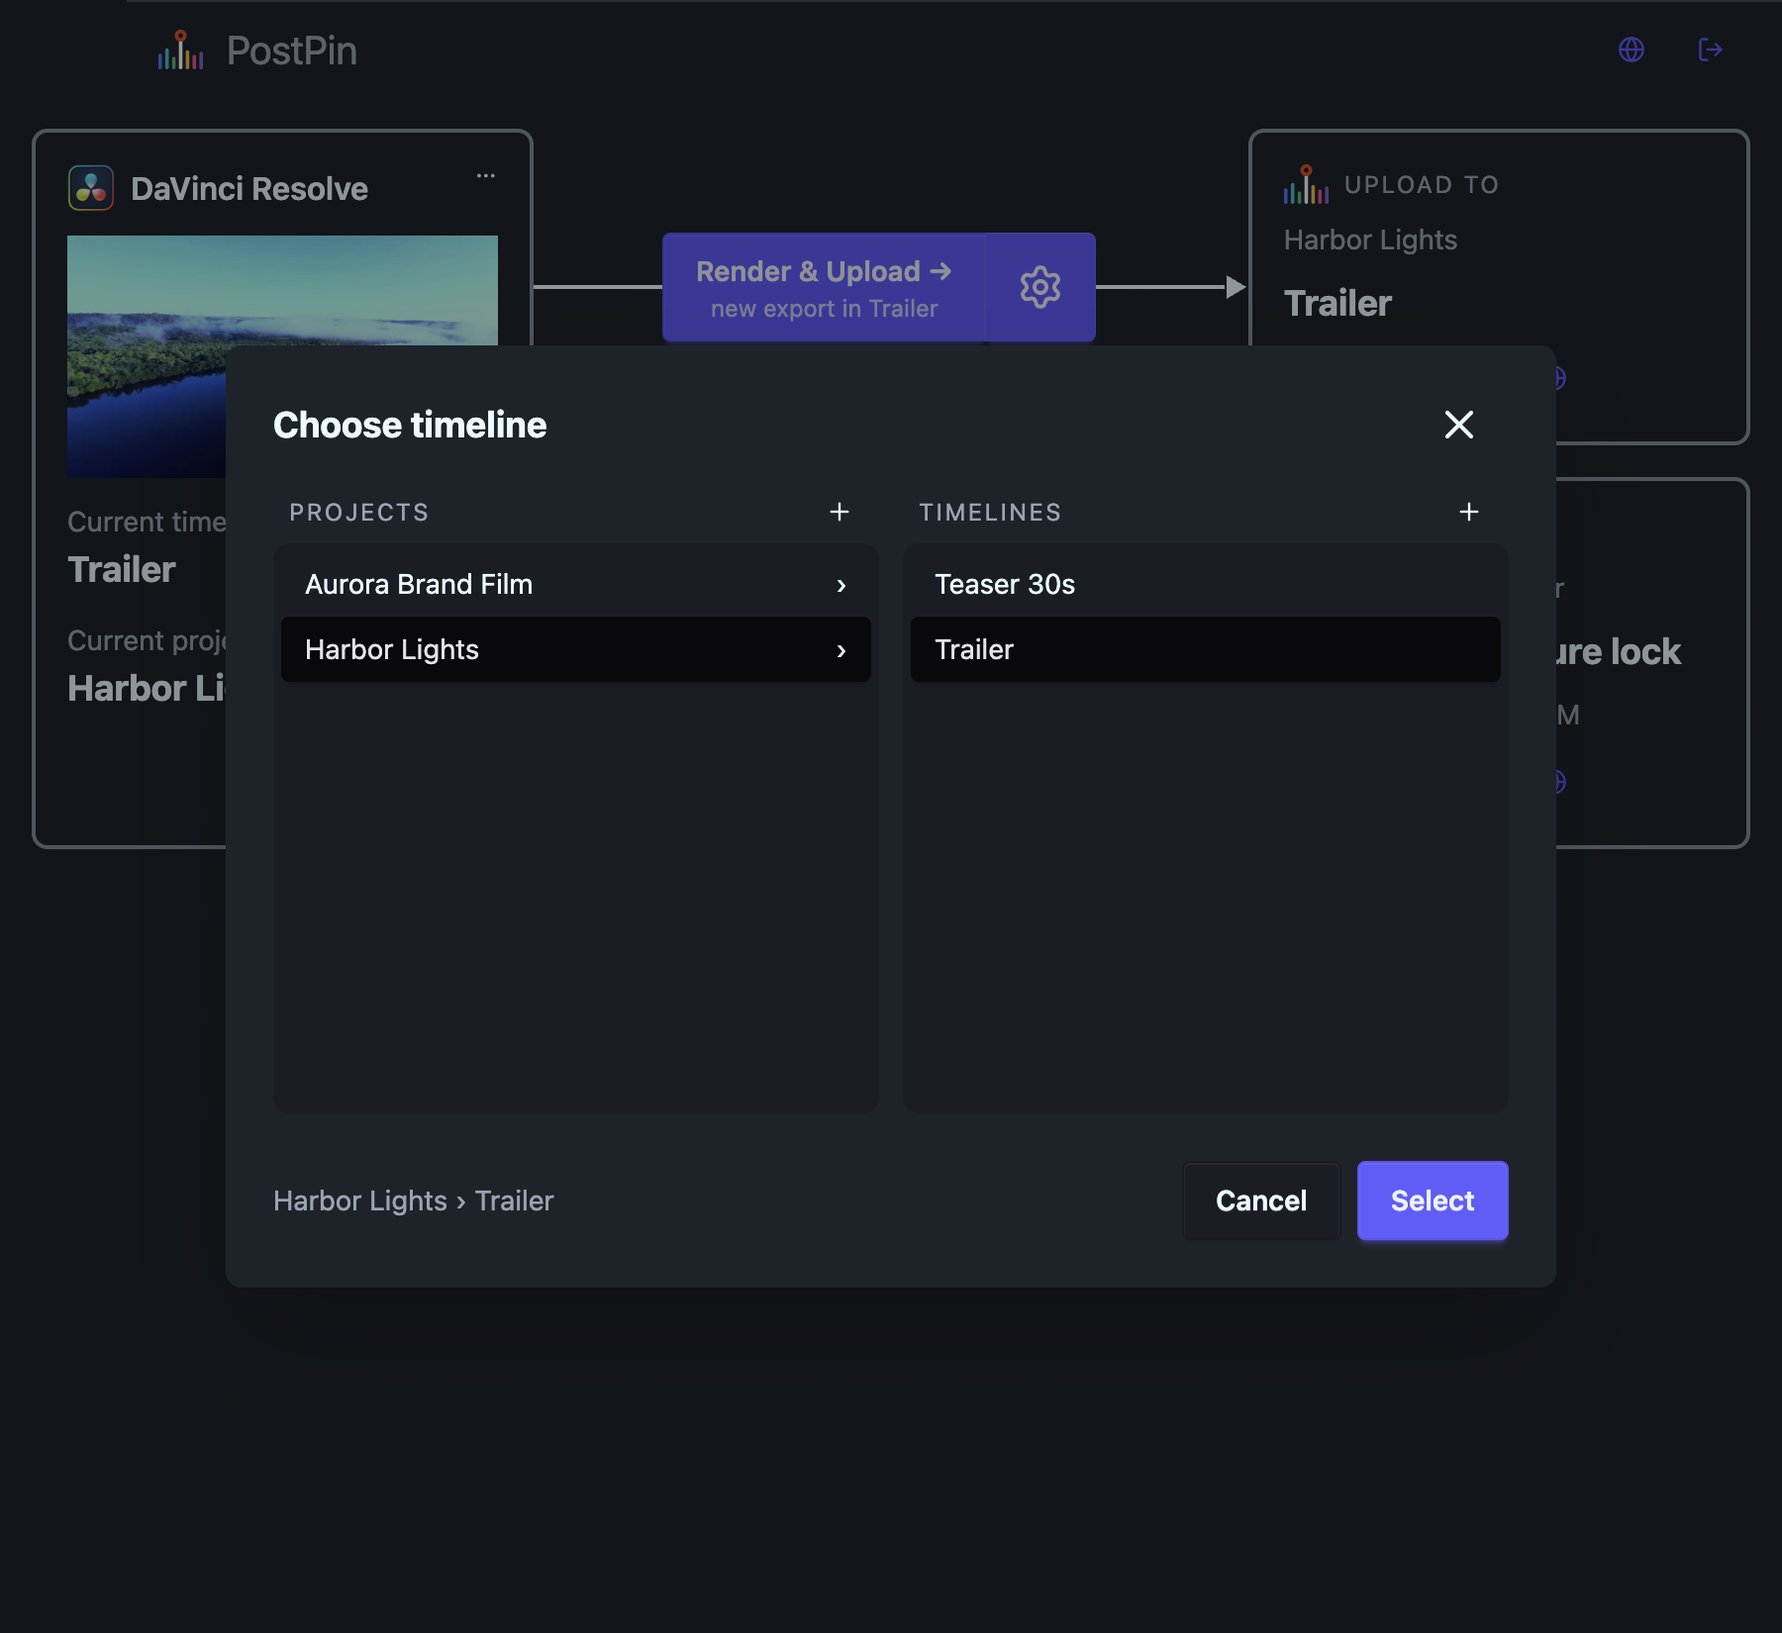
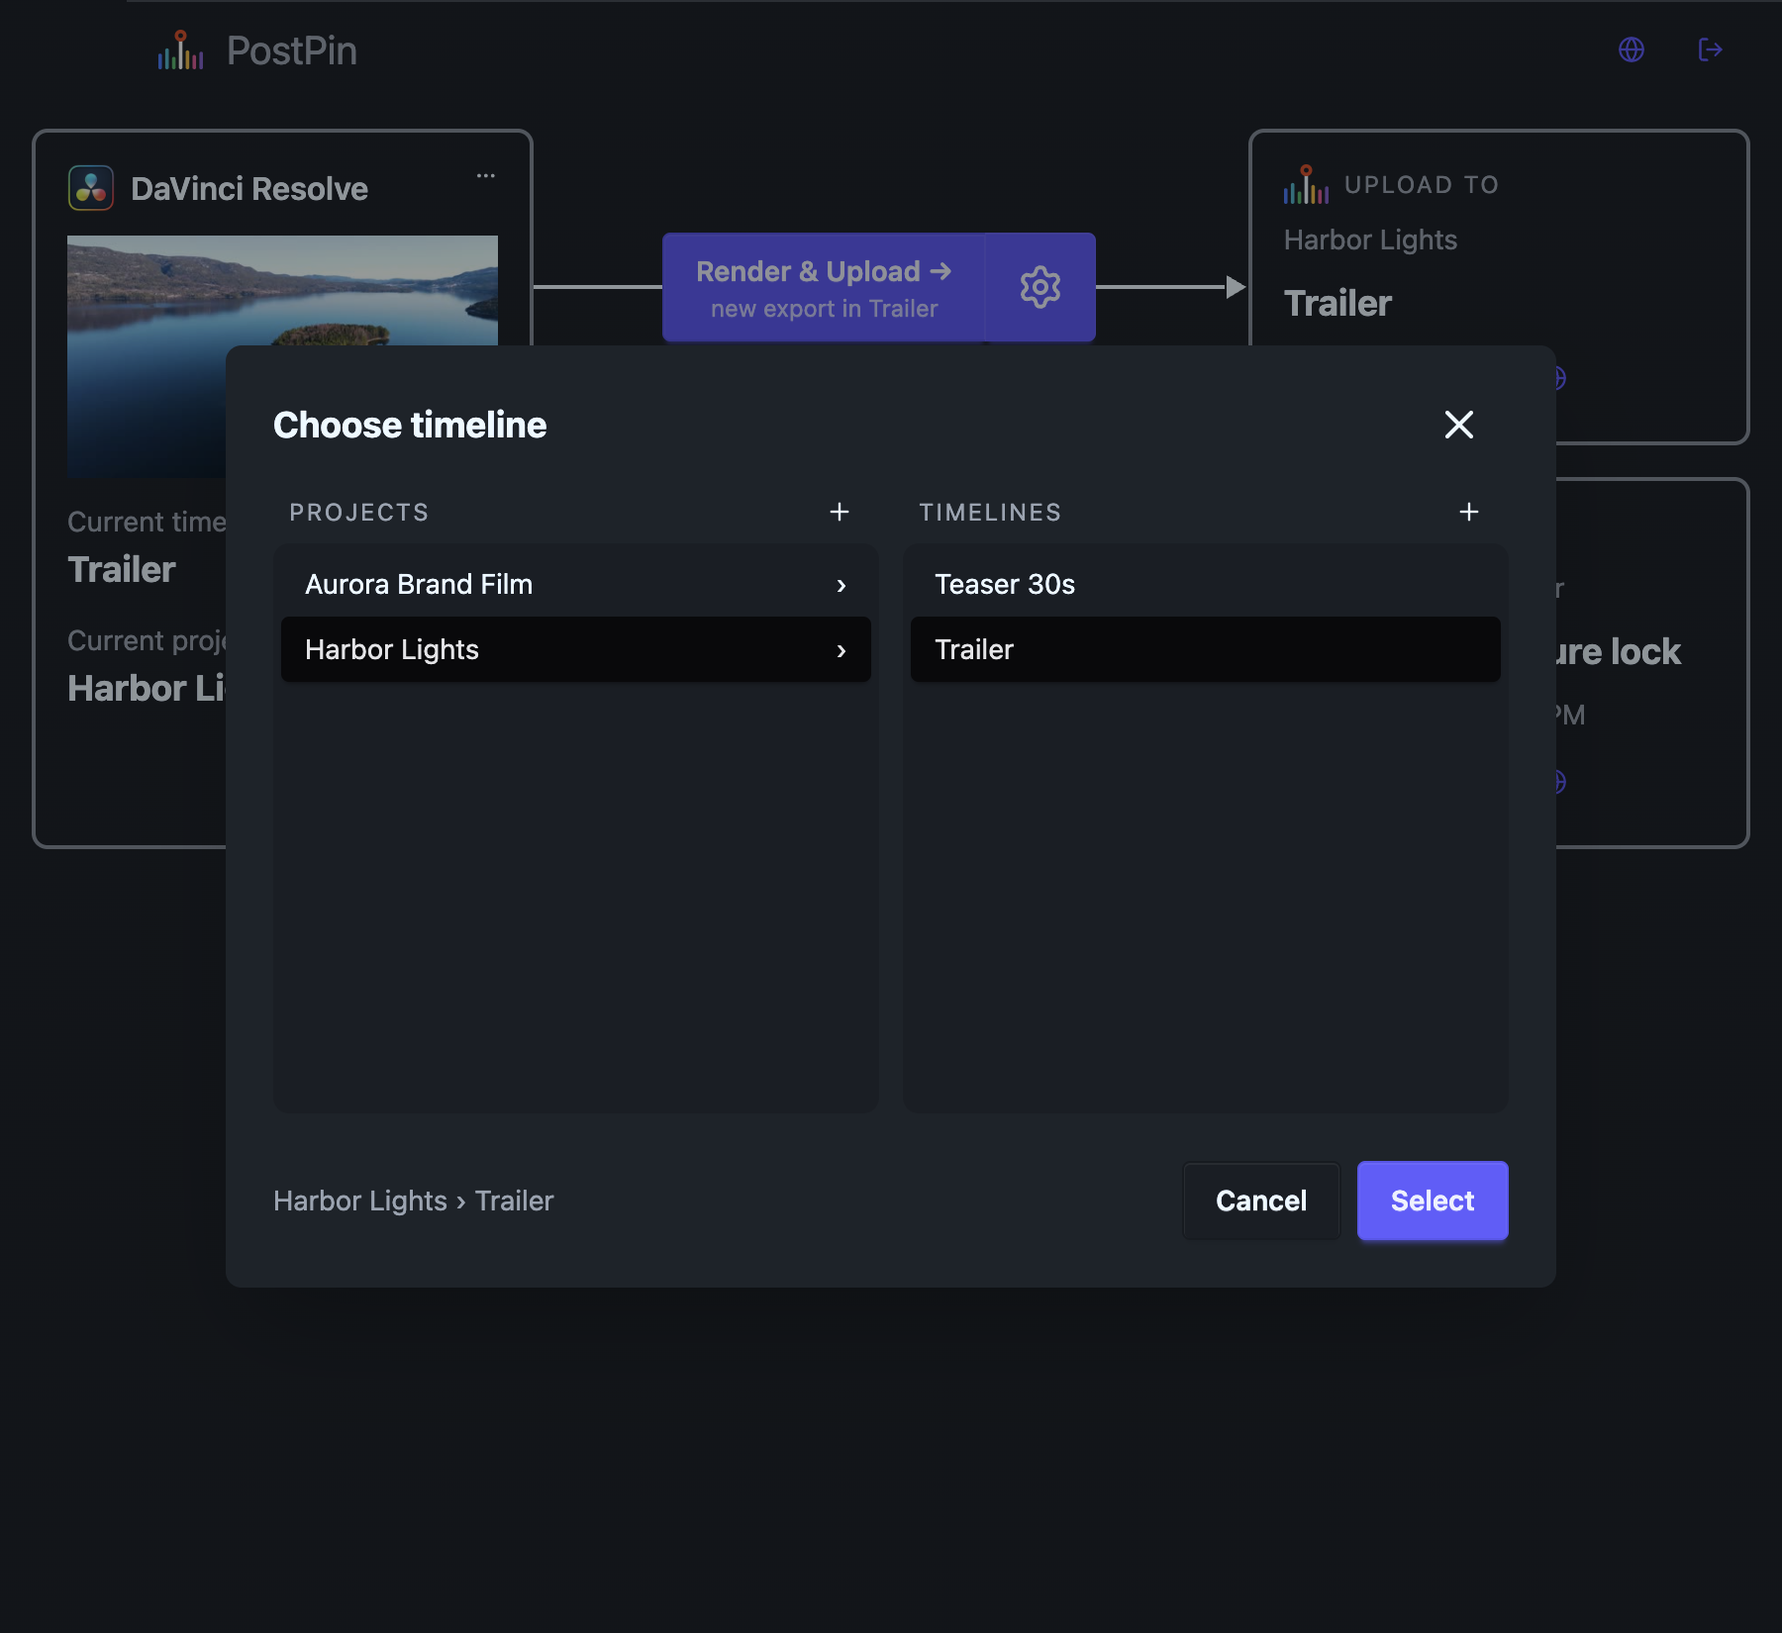
docs: theme-aware web screenshots in a browser frame, fjord clip
Every web app screenshot is now taken in light and dark mode (the app
follows prefers-color-scheme, so only the emulated scheme changes). The
run writes web/manifest.json with each shot's page URL and whether it is
a whole page or a cutout.

<Screenshot name alt> shows the variant matching the docs theme and puts
whole pages into a browser window frame with the page URL; dialogs stay
unframed. Shot 3 of the demo render is now a Norwegian fjord instead of
the river clip with the off-looking sky.

Changed region(s): [[0.0311, 0.1236, 0.28, 0.2782], [0.8711, 0.4327, 0.9022, 0.4636]]

diff --git a/screenshots/webshot.ts b/screenshots/webshot.ts
@@ -1,0 +1,50 @@
+// Takes a web app screenshot in light and dark mode and records it in the manifest, which the
+// docs' <Screenshot> component reads: the page URL for the browser frame, and whether the shot
+// is a whole page (framed) or a cutout like a dialog (not framed).
+import type { Page } from "playwright";
+import fs from "node:fs";
+import path from "node:path";
+import { OUT, sleep } from "./lib.ts";
+
+const dir = path.join(OUT, "web");
+const manifestFile = path.join(dir, "manifest.json");
+
+export interface ShotInfo {
+	/** path and query of the page, shown in the browser frame */
+	url: string;
+	/** a whole page (shown in a browser frame) or a cutout of one */
+	page: boolean;
+}
+
+function updateManifest(name: string, info: ShotInfo) {
+	const manifest: Record<string, ShotInfo> = fs.existsSync(manifestFile)
+		? JSON.parse(fs.readFileSync(manifestFile, "utf8"))
+		: {};
+	manifest[name] = info;
+	const sorted = Object.fromEntries(Object.entries(manifest).sort(([a], [b]) => a.localeCompare(b)));
+	fs.writeFileSync(manifestFile, JSON.stringify(sorted, null, "\t") + "\n");
+}
+
+export type Clip = { x: number; y: number; width: number; height: number };
+
+/**
+ * `<name>.png` in light and `<name>-dark.png` in dark mode. The app follows prefers-color-scheme,
+ * so switching the emulated scheme restyles the same page state without redoing the step.
+ * `clip` can be a function, because the cutout may move when the theme changes.
+ */
+export async function webShot(page: Page, name: string, opts: { fullPage?: boolean; clip?: Clip | (() => Promise<Clip>) } = {}) {
+	fs.mkdirSync(dir, { recursive: true });
+	await page.waitForLoadState("networkidle");
+	await sleep(500); // thumbnails and fonts settle a moment after network idle
+	for (const scheme of ["light", "dark"] as const) {
+		await page.emulateMedia({ colorScheme: scheme });
+		await sleep(300);
+		const clip = typeof opts.clip === "function" ? await opts.clip() : opts.clip;
+		const file = path.join(dir, scheme === "light" ? `${name}.png` : `${name}-dark.png`);
+		await page.screenshot({ path: file, animations: "disabled", fullPage: opts.fullPage, clip });
+	}
+	await page.emulateMedia({ colorScheme: "light" });
+	const url = new URL(page.url());
+	updateManifest(name, { url: url.pathname + url.search, page: !opts.clip });
+	console.log(`  web/${name}.png (+ dark)`);
+}

diff --git a/src/components/Screenshot/index.tsx b/src/components/Screenshot/index.tsx
@@ -1,0 +1,43 @@
+import type {ReactNode} from 'react';
+import useBaseUrl from '@docusaurus/useBaseUrl';
+import ThemedImage from '@theme/ThemedImage';
+import manifest from '@site/static/img/screenshots/web/manifest.json';
+import styles from './styles.module.css';
+
+// Host shown in the browser frame; the path comes from the screenshot run
+const HOST = 'postpin.example.com';
+
+type Info = {url: string; page: boolean};
+
+/**
+ * A web app screenshot from static/img/screenshots/web, in the variant matching the docs'
+ * light/dark theme. Whole pages get a browser window frame with the page's URL; cutouts
+ * like dialogs are shown as they are.
+ *
+ *   <Screenshot name="review" alt="The review screen" />
+ */
+export default function Screenshot({name, alt}: {name: string; alt: string}): ReactNode {
+  const info = (manifest as Record<string, Info>)[name];
+  if (!info) throw new Error(`Screenshot "${name}" is not in static/img/screenshots/web/manifest.json`);
+  const light = useBaseUrl(`/img/screenshots/web/${name}.png`);
+  const dark = useBaseUrl(`/img/screenshots/web/${name}-dark.png`);
+  const image = <ThemedImage alt={alt} sources={{light, dark}} className={styles.image} />;
+
+  if (!info.page) return <figure className={styles.cutout}>{image}</figure>;
+  return (
+    <figure className={styles.window}>
+      <div className={styles.toolbar} aria-hidden="true">
+        <span className={styles.dots}>
+          <i />
+          <i />
+          <i />
+        </span>
+        <span className={styles.address}>
+          <span className={styles.host}>{HOST}</span>
+          {info.url}
+        </span>
+      </div>
+      {image}
+    </figure>
+  );
+}

diff --git a/src/components/Screenshot/styles.module.css b/src/components/Screenshot/styles.module.css
@@ -1,0 +1,87 @@
+.window,
+.cutout {
+  margin: 1.5rem 0;
+}
+
+.window {
+  --frame-bg: #e9e9ee;
+  --frame-border: #d4d4dc;
+  --address-bg: #ffffff;
+  --address-fg: #5c5c66;
+  border: 1px solid var(--frame-border);
+  border-radius: 10px;
+  overflow: hidden;
+  background: var(--frame-bg);
+  box-shadow: 0 8px 28px rgba(15, 15, 30, 0.12);
+}
+
+[data-theme='dark'] .window {
+  --frame-bg: #2b2b31;
+  --frame-border: #3c3c44;
+  --address-bg: #1c1c21;
+  --address-fg: #a3a3ad;
+  box-shadow: 0 8px 28px rgba(0, 0, 0, 0.45);
+}
+
+.toolbar {
+  display: flex;
+  align-items: center;
+  gap: 12px;
+  padding: 8px 12px;
+}
+
+.dots {
+  display: flex;
+  gap: 6px;
+  flex-shrink: 0;
+}
+
+.dots i {
+  width: 11px;
+  height: 11px;
+  border-radius: 50%;
+  background: #ff5f57;
+}
+
+.dots i:nth-child(2) {
+  background: #febc2e;
+}
+
+.dots i:nth-child(3) {
+  background: #28c840;
+}
+
+.address {
+  flex: 1;
+  min-width: 0;
+  max-width: 560px;
+  margin: 0 auto;
+  padding: 3px 12px;
+  border-radius: 6px;
+  background: var(--address-bg);
+  color: var(--address-fg);
+  font-size: 12px;
+  font-family: var(--ifm-font-family-monospace);
+  white-space: nowrap;
+  overflow: hidden;
+  text-overflow: ellipsis;
+  text-align: center;
+}
+
+.host {
+  color: var(--ifm-font-color-base);
+}
+
+/* The window draws the frame, so the image itself gets none (see custom.css) */
+.window .image {
+  display: block;
+  width: 100%;
+  border: 0 !important;
+  border-radius: 0 !important;
+  box-shadow: none !important;
+}
+
+.cutout .image {
+  display: block;
+  max-width: min(100%, 560px);
+}

diff --git a/screenshots/web.ts b/screenshots/web.ts
@@ -5,6 +5,7 @@ import { chromium, type Page } from "playwright";
 import fs from "node:fs";
 import path from "node:path";
 import { BASE, OUT, PASSWORD, WORK, api, sleep } from "./lib.ts";
+import { webShot } from "./webshot.ts";
 
 const dir = path.join(OUT, "web");
 fs.mkdirSync(dir, { recursive: true });
@@ -49,22 +50,20 @@ async function newPage(email?: string) {
 	return page;
 }
 
-async function shot(page: Page, name: string, opts: { fullPage?: boolean; clip?: { x: number; y: number; width: number; height: number } } = {}) {
-	await page.waitForLoadState("networkidle");
-	// thumbnails and fonts settle a moment after network idle
-	await sleep(500);
-	await page.screenshot({ path: path.join(dir, `${name}.png`), animations: "disabled", ...opts });
-	console.log(`  web/${name}.png`);
-}
+const shot = webShot;
 
 /** Screenshot of a dialog (daisyUI modal) plus some padding. */
 async function shotDialog(page: Page, name: string) {
 	const box = page.locator(".modal-box:visible").first();
 	await box.waitFor();
 	await sleep(300);
-	const b = (await box.boundingBox())!;
 	const pad = 24;
-	await shot(page, name, { clip: { x: b.x - pad, y: b.y - pad, width: b.width + 2 * pad, height: b.height + 2 * pad } });
+	await shot(page, name, {
+		clip: async () => {
+			const b = (await box.boundingBox())!;
+			return { x: b.x - pad, y: b.y - pad, width: b.width + 2 * pad, height: b.height + 2 * pad };
+		},
+	});
 }
 
 const reviewUrl = () => {

diff --git a/screenshots/plugin.ts b/screenshots/plugin.ts
@@ -9,6 +9,7 @@ import { execFileSync } from "node:child_process";
 import fs from "node:fs";
 import path from "node:path";
 import { BASE, DOCS_ROOT, OUT, PASSWORD, WORK, sleep } from "./lib.ts";
+import { webShot } from "./webshot.ts";
 
 const src = path.resolve(process.argv[2] ?? "");
 const pluginDir = path.join(src, "packages/plugin-resolve");
@@ -35,7 +36,7 @@ const electronBin = path.join(pluginDir, "node_modules/electron/dist/Electron.ap
 
 // browser session of the user approving the device login
 const browser = await chromium.launch();
-const ctx = await browser.newContext({ viewport: { width: 1280, height: 800 }, deviceScaleFactor: 2 });
+const ctx = await browser.newContext({ viewport: { width: 1440, height: 900 }, deviceScaleFactor: 2 });
 const web = await ctx.newPage();
 await web.goto(`${BASE}/auth/login`);
 await web.getByLabel("Email").fill("jordan@example.com");
@@ -106,8 +107,7 @@ for (const host of ["Resolve", "Pro Tools"]) {
 	await web.getByRole("button", { name: "Allow access" }).waitFor();
 	if (slug === "resolve") {
 		await sleep(500);
-		await web.screenshot({ path: path.join(webDir, "device-approve.png") });
-		console.log("  web/device-approve.png");
+		await webShot(web, "device-approve");
 	}
 	await web.getByRole("button", { name: "Allow access" }).click();
 	await web.getByText("You can close this tab").waitFor();

diff --git a/src/theme/MDXComponents.tsx b/src/theme/MDXComponents.tsx
@@ -1,0 +1,8 @@
+// Makes <Screenshot> available in every doc without an import
+import MDXComponents from '@theme-original/MDXComponents';
+import Screenshot from '@site/src/components/Screenshot';
+
+export default {
+  ...MDXComponents,
+  Screenshot,
+};

diff --git a/docs/guide/review.md b/docs/guide/review.md
@@ -8,7 +8,7 @@ sidebar_position: 5
 The review screen has the player and the timeline on the left and the markers on the right. Drag
 the divider between them to resize the panes. PostPin remembers the layout in your browser.
 
-![The review screen](/img/screenshots/web/review.png)
+<Screenshot name="review" alt="The review screen" />
 
 ## Player
 
@@ -41,7 +41,7 @@ Markers appear on the ruler in their category colour. Drag a marker to move it t
 Press <kbd>M</kbd> to add a marker at the current frame. It gets the category you used last, and
 the edit pane opens so you can type a title right away.
 
-![Editing a marker](/img/screenshots/web/review-marker.png)
+<Screenshot name="review-marker" alt="Editing a marker" />
 
 In the edit pane you set the **Title**, the **Description** and the category. Changes save as you
 type. <kbd>⌘</kbd>/<kbd>Ctrl</kbd> + <kbd>Enter</kbd> closes the pane.
@@ -74,7 +74,7 @@ works between exports, for example to carry open notes over to the next version.
 Click **Respond** on a marker to open its thread. Type your reply and send it with the button or
 <kbd>⌘</kbd>/<kbd>Ctrl</kbd> + <kbd>Enter</kbd>. The marker card shows the number of replies.
 
-![The replies of a marker](/img/screenshots/web/review-responses.png)
+<Screenshot name="review-responses" alt="The replies of a marker" />
 
 Replies can't be edited or deleted. They stay in PostPin and are not pulled into your editor.
 
@@ -86,7 +86,7 @@ marker.
 
 To manage categories, open a marker and click **New category** next to the category selector.
 
-![The categories of a project](/img/screenshots/web/categories.png)
+<Screenshot name="categories" alt="The categories of a project" />
 
 Here you can add categories, rename them, change their colour and delete them. If markers still use
 a category you delete, PostPin asks which category to move them to.

diff --git a/docs/guide/projects.md b/docs/guide/projects.md
@@ -10,7 +10,7 @@ sidebar_position: 4
 The dashboard lists the projects of your active organization. Each card shows a thumbnail of the
 latest export, and when the project was created and last updated.
 
-![The dashboard with three projects](/img/screenshots/web/dashboard.png)
+<Screenshot name="dashboard" alt="The dashboard with three projects" />
 
 - **+** creates a new project. Projects also appear on their own when you upload from a
   plugin into a new project.
@@ -30,7 +30,7 @@ Admins and owners see all projects of the organization.
 Open a project to see its timelines. **Open latest** on a timeline card opens its newest export
 for review. Timelines without uploads show "No exports yet".
 
-![The timelines of a project](/img/screenshots/web/project.png)
+<Screenshot name="project" alt="The timelines of a project" />
 
 The **⋯** menu of a timeline has **View latest export**, **All exports**, **Rename timeline** and
 **Delete timeline**.
@@ -39,7 +39,7 @@ The **⋯** menu of a timeline has **View latest export**, **All exports**, **Re
 
 **All exports** lists every upload of a timeline, newest first.
 
-![The exports of a timeline, newest first](/img/screenshots/web/exports.png)
+<Screenshot name="exports" alt="The exports of a timeline, newest first" />
 
 The **⋯** menu of an export has:
 

diff --git a/CLAUDE.md b/CLAUDE.md
@@ -18,7 +18,13 @@ lives in `source.json`. Never document features that only exist on feature branc
 - `docs/downloads.md`: download page.
 - `openapi/swagger.json`: tsoa spec from the source commit, enriched by `scripts/sync-openapi.mjs`
   (tags, server URL).
-- `static/img/screenshots/`: generated by `pnpm screenshots`. Do not edit by hand.
+- `static/img/screenshots/`: generated by `pnpm screenshots`. Do not edit by hand. Web app shots
+  come in a light (`<name>.png`) and a dark (`<name>-dark.png`) variant, plus `web/manifest.json`
+  with each shot's page URL and whether it's a whole page or a cutout.
+- Web app screenshots go into docs with `<Screenshot name="review" alt="…" />`
+  (`src/components/Screenshot`, available in every doc without an import). It picks the variant
+  for the docs' theme and frames whole pages in a browser window. Plugin screenshots are plain
+  Markdown images (the plugins are always dark).
 - `screenshots/`: Playwright script, demo seed and the throwaway backing services
   (`compose.yml`, own project name and ports, nothing persisted).
 

diff --git a/docs/guide/getting-started.md b/docs/guide/getting-started.md
@@ -14,7 +14,7 @@ Open your PostPin server in the browser and click **Create an account** on the l
 your first and last name, your email address and a password, then click **Sign Up**. You are signed
 in right away.
 
-![The sign-up page](/img/screenshots/web/signup.png)
+<Screenshot name="signup" alt="The sign-up page" />
 
 If someone invited you, use the link in the invitation email instead. It takes you to the
 organization you were invited to, and you sign up or log in from there. See
@@ -33,7 +33,7 @@ a verified address.
 Right after signing up, the dashboard asks you to set up an organization. Click
 **Create organization**, enter a name and click **Create**. You become the organization's owner.
 
-![The dashboard of a new account without an organization](/img/screenshots/web/dashboard-no-organization.png)
+<Screenshot name="dashboard-no-organization" alt="The dashboard of a new account without an organization" />
 
 You can be a member of several organizations. Switch between them in the account menu at the top
 right, under **Organizations**.

diff --git a/docs/guide/organization.md b/docs/guide/organization.md
@@ -9,7 +9,7 @@ sidebar_position: 7
 
 **Members** in the header lists everyone in the organization with their role.
 
-![The members page of an organization](/img/screenshots/web/members.png)
+<Screenshot name="members" alt="The members page of an organization" />
 
 - Change a member's role with the role selector, if your own role allows it.
 - **Access** shows which projects and timelines a member or reviewer can see, and removes access.
@@ -26,7 +26,7 @@ projects or timelines from the [share dialog](./sharing.md#share-a-project-or-ti
 
 Admins and owners see **Settings** in the header.
 
-![The organization settings](/img/screenshots/web/organization-settings.png)
+<Screenshot name="organization-settings" alt="The organization settings" />
 
 Owners can rename the organization here. The **Danger zone** has **Delete organization**: type the
 organization's name to confirm, then click **Delete forever**. This deletes all projects,

diff --git a/docs/guide/sharing.md b/docs/guide/sharing.md
@@ -29,7 +29,7 @@ organization always keeps at least one owner.
 Open the project or timeline and click the **Share** button in the header. The dialog shows who has
 access and lets you add more people.
 
-![The share dialog of a project](/img/screenshots/web/share-project.png)
+<Screenshot name="share-project" alt="The share dialog of a project" />
 
 - **Has access** lists everyone with access. Access to a project includes all its timelines,
   shown as "via project". Admins and owners always have access and aren't listed.
